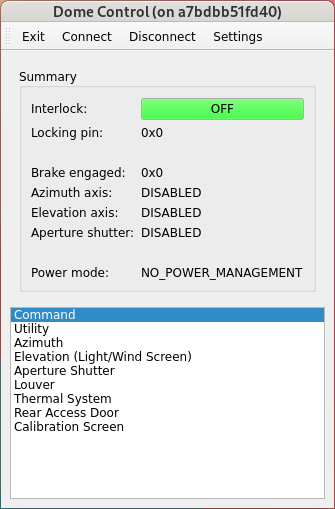
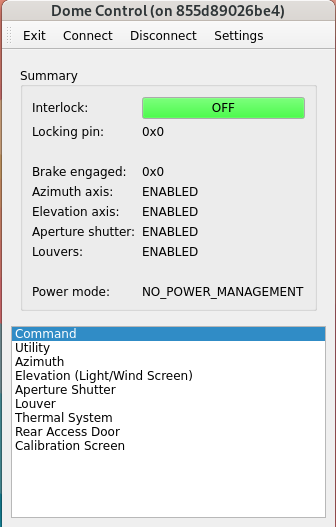
Report the louver control system to be Enabled once there is the connection

diff --git a/tests/test_control_panel.py b/tests/test_control_panel.py
@@ -41,7 +41,7 @@ def widget(qtbot: QtBot) -> ControlPanel:
 
 def test_init(widget: ControlPanel) -> None:
 
-    assert len(widget._labels) == 6
+    assert len(widget._labels) == 7
 
 
 @pytest.mark.asyncio
@@ -102,6 +102,7 @@ async def test_set_signal_state(widget: ControlPanel) -> None:
     widget.model.reporter.report_state_azimuth_axis(MTDome.EnabledState.ENABLED)
     widget.model.reporter.report_state_elevation_axis(MTDome.EnabledState.ENABLED)
     widget.model.reporter.report_state_aperture_shutter(MTDome.EnabledState.ENABLED)
+    widget.model.reporter.report_state_louvers(MTDome.EnabledState.ENABLED)
     widget.model.reporter.report_state_power_mode(MTDome.PowerManagementMode.EMERGENCY)
 
     # Sleep so the event loop can access CPU to handle the signal
@@ -110,6 +111,7 @@ async def test_set_signal_state(widget: ControlPanel) -> None:
     assert widget._labels["azimuth_axis"].text() == MTDome.EnabledState.ENABLED.name
     assert widget._labels["elevation_axis"].text() == MTDome.EnabledState.ENABLED.name
     assert widget._labels["aperture_shutter"].text() == MTDome.EnabledState.ENABLED.name
+    assert widget._labels["louvers"].text() == MTDome.EnabledState.ENABLED.name
     assert (
         widget._labels["power_mode"].text() == MTDome.PowerManagementMode.EMERGENCY.name
     )

diff --git a/python/lsst/ts/mtdomegui/control_panel.py b/python/lsst/ts/mtdomegui/control_panel.py
@@ -74,6 +74,7 @@ class ControlPanel(QWidget):
             "azimuth_axis": create_label(),
             "elevation_axis": create_label(),
             "aperture_shutter": create_label(),
+            "louvers": create_label(),
             "power_mode": create_label(),
         }
 
@@ -117,6 +118,7 @@ class ControlPanel(QWidget):
         layout.addRow("Azimuth axis:", self._labels["azimuth_axis"])
         layout.addRow("Elevation axis:", self._labels["elevation_axis"])
         layout.addRow("Aperture shutter:", self._labels["aperture_shutter"])
+        layout.addRow("Louvers:", self._labels["louvers"])
 
         add_empty_row_to_form_layout(layout)
 
@@ -217,6 +219,13 @@ class ControlPanel(QWidget):
             partial(
                 self._callback_update_label,
                 "aperture_shutter",
+                enum=MTDome.EnabledState,
+            )
+        )
+        signal.louvers.connect(
+            partial(
+                self._callback_update_label,
+                "louvers",
                 enum=MTDome.EnabledState,
             )
         )

diff --git a/python/lsst/ts/mtdomegui/model.py b/python/lsst/ts/mtdomegui/model.py
@@ -154,6 +154,9 @@ class Model:
         self.reporter.report_state_aperture_shutter(MTDome.EnabledState.ENABLED)
         self.reporter.report_fault_code_aperture_shutter("")
 
+        self.reporter.report_state_louvers(MTDome.EnabledState.ENABLED)
+        self.reporter.report_fault_code_louvers("")
+
         self.reporter.report_state_brake_engaged(0)
         self.reporter.report_state_locking_pins_engaged(0)
 

diff --git a/doc/user-guide/user-guide.rst b/doc/user-guide/user-guide.rst
@@ -42,7 +42,7 @@ After the execution of GUI, you will see the above control panel.
 You can use the top toolbar to change the **Settings** of GUI, **Connect**/**Disconnect** the dome controller, and **Exit** the application.
 
 The top region of control panel shows the summary of the dome system.
-You can see that whether the azimuth/elevation/shutter is in fault, interlock, locking pin, break, and power mode status.
+You can see that whether the azimuth/elevation/shutter/louver is in fault, interlock, locking pin, break, and power mode status.
 
 The bottom region of control panel has multiple tables that you can double-click to open to have more detailed system information.
 If you move the mouse close to the buttons/indicators and texts in the panel and tables, you will see the prompted tips to explain the related details.

diff --git a/doc/version_history.rst b/doc/version_history.rst
@@ -6,6 +6,10 @@
 Version History
 ##################
 
+.. _lsst.ts.mtdomegui-0.5.2:
+
+* Report the louver control system to be Enabled once there is the connection.
+
 .. _lsst.ts.mtdomegui-0.5.1:
 
 * Improve the ``test_application.py``.
